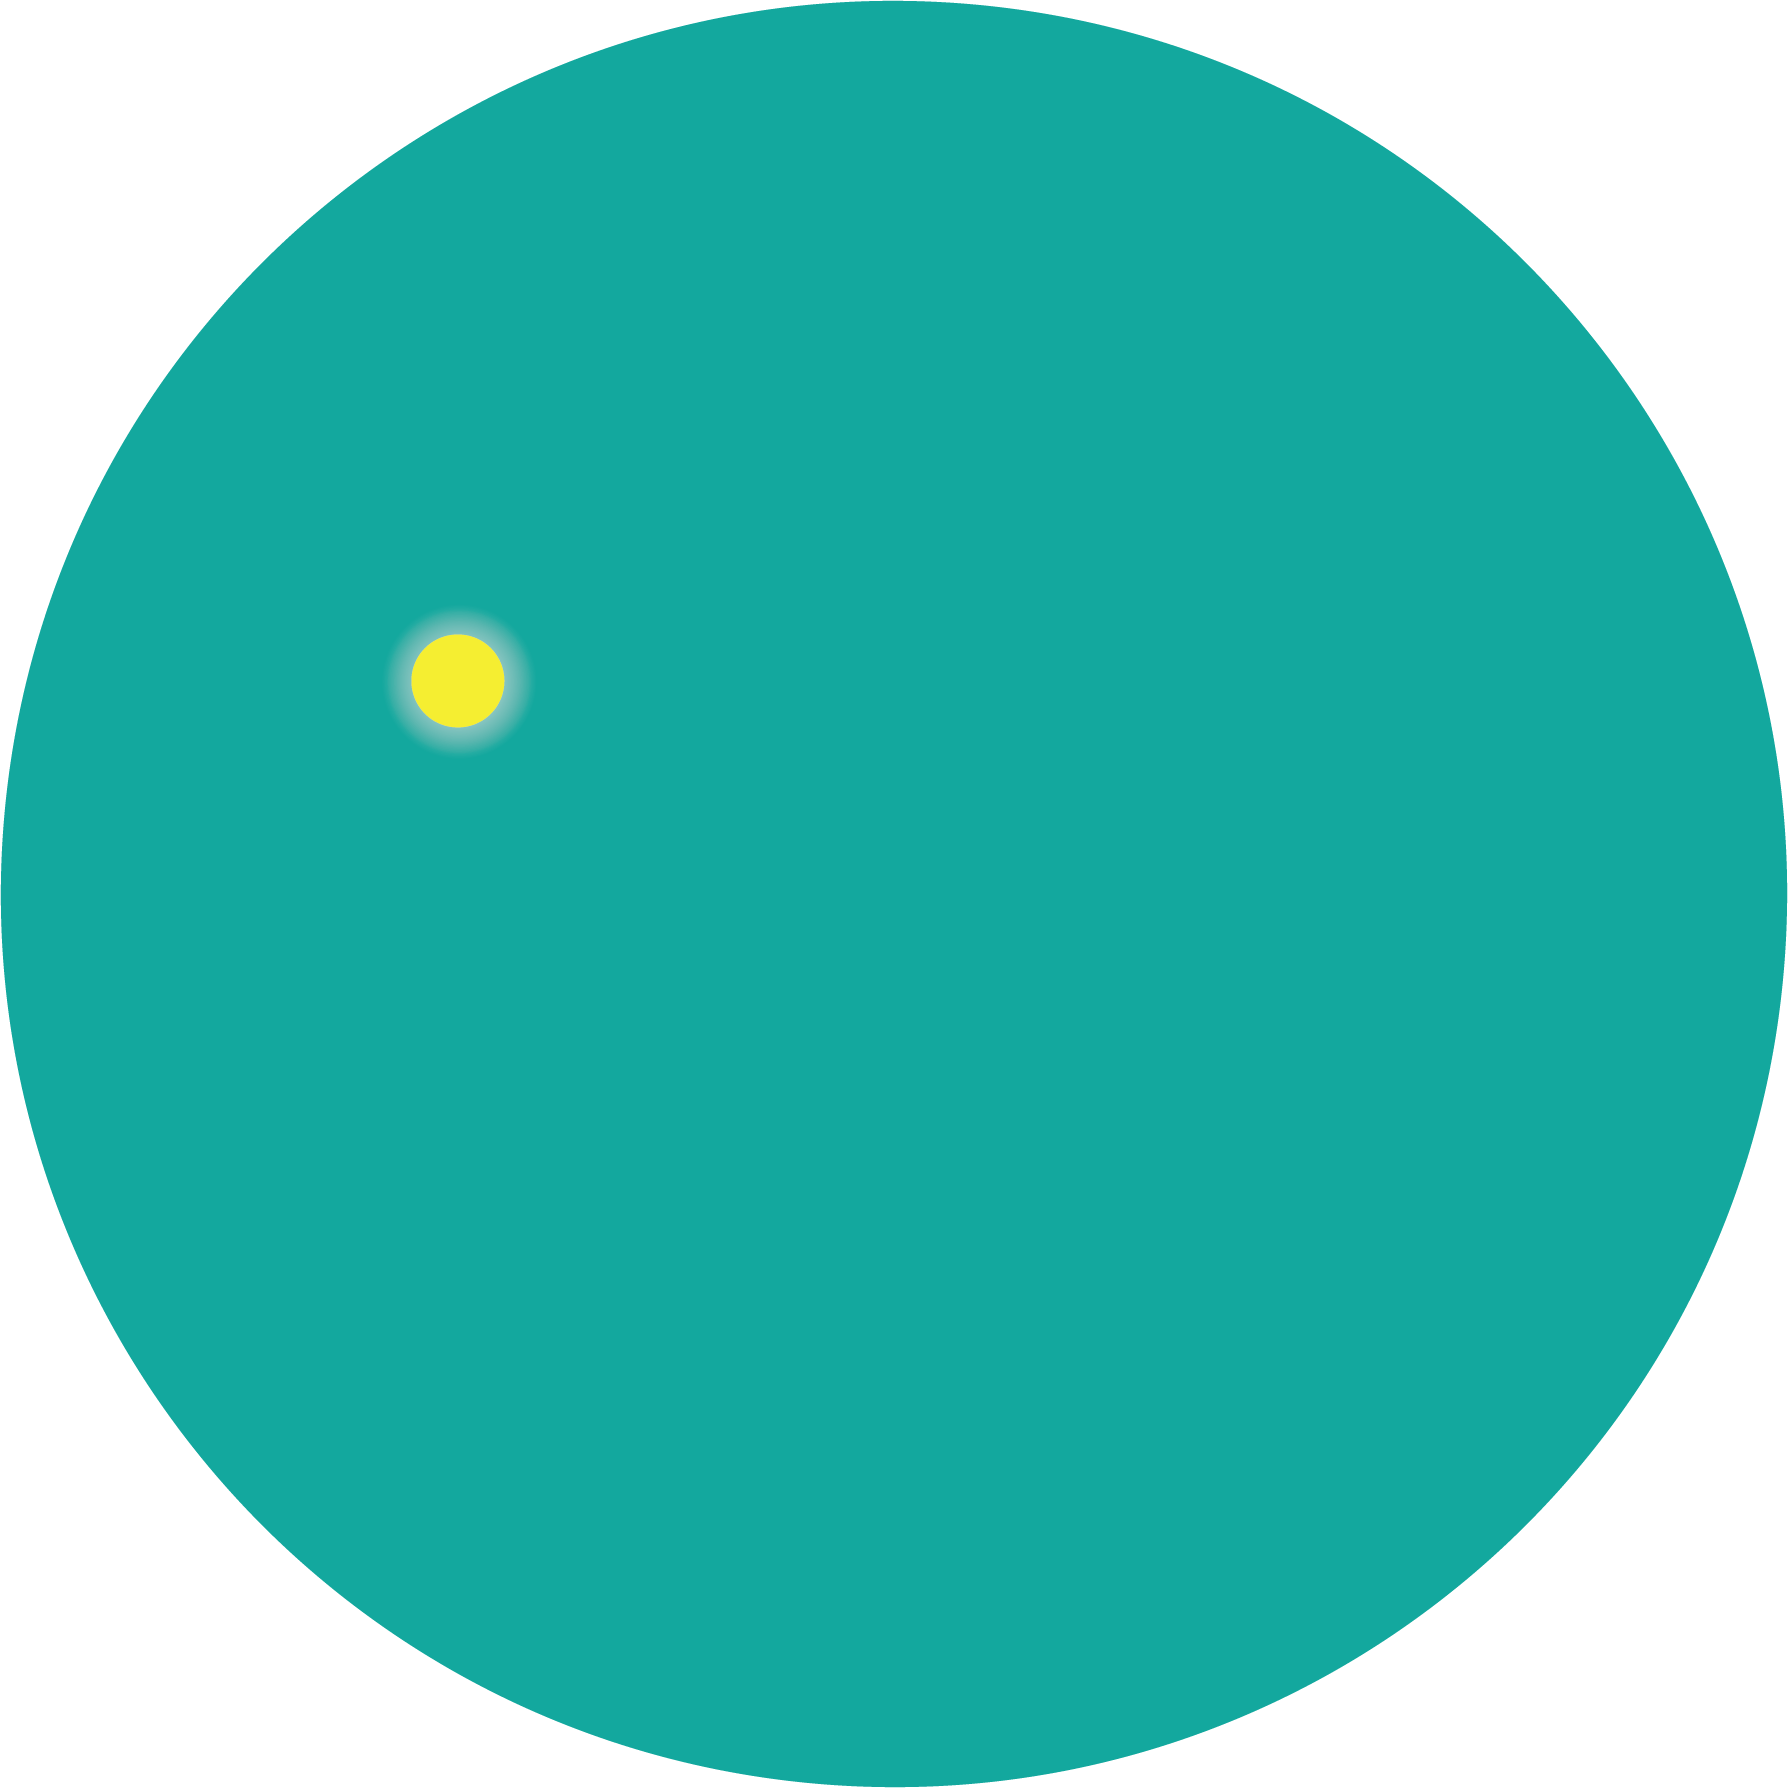
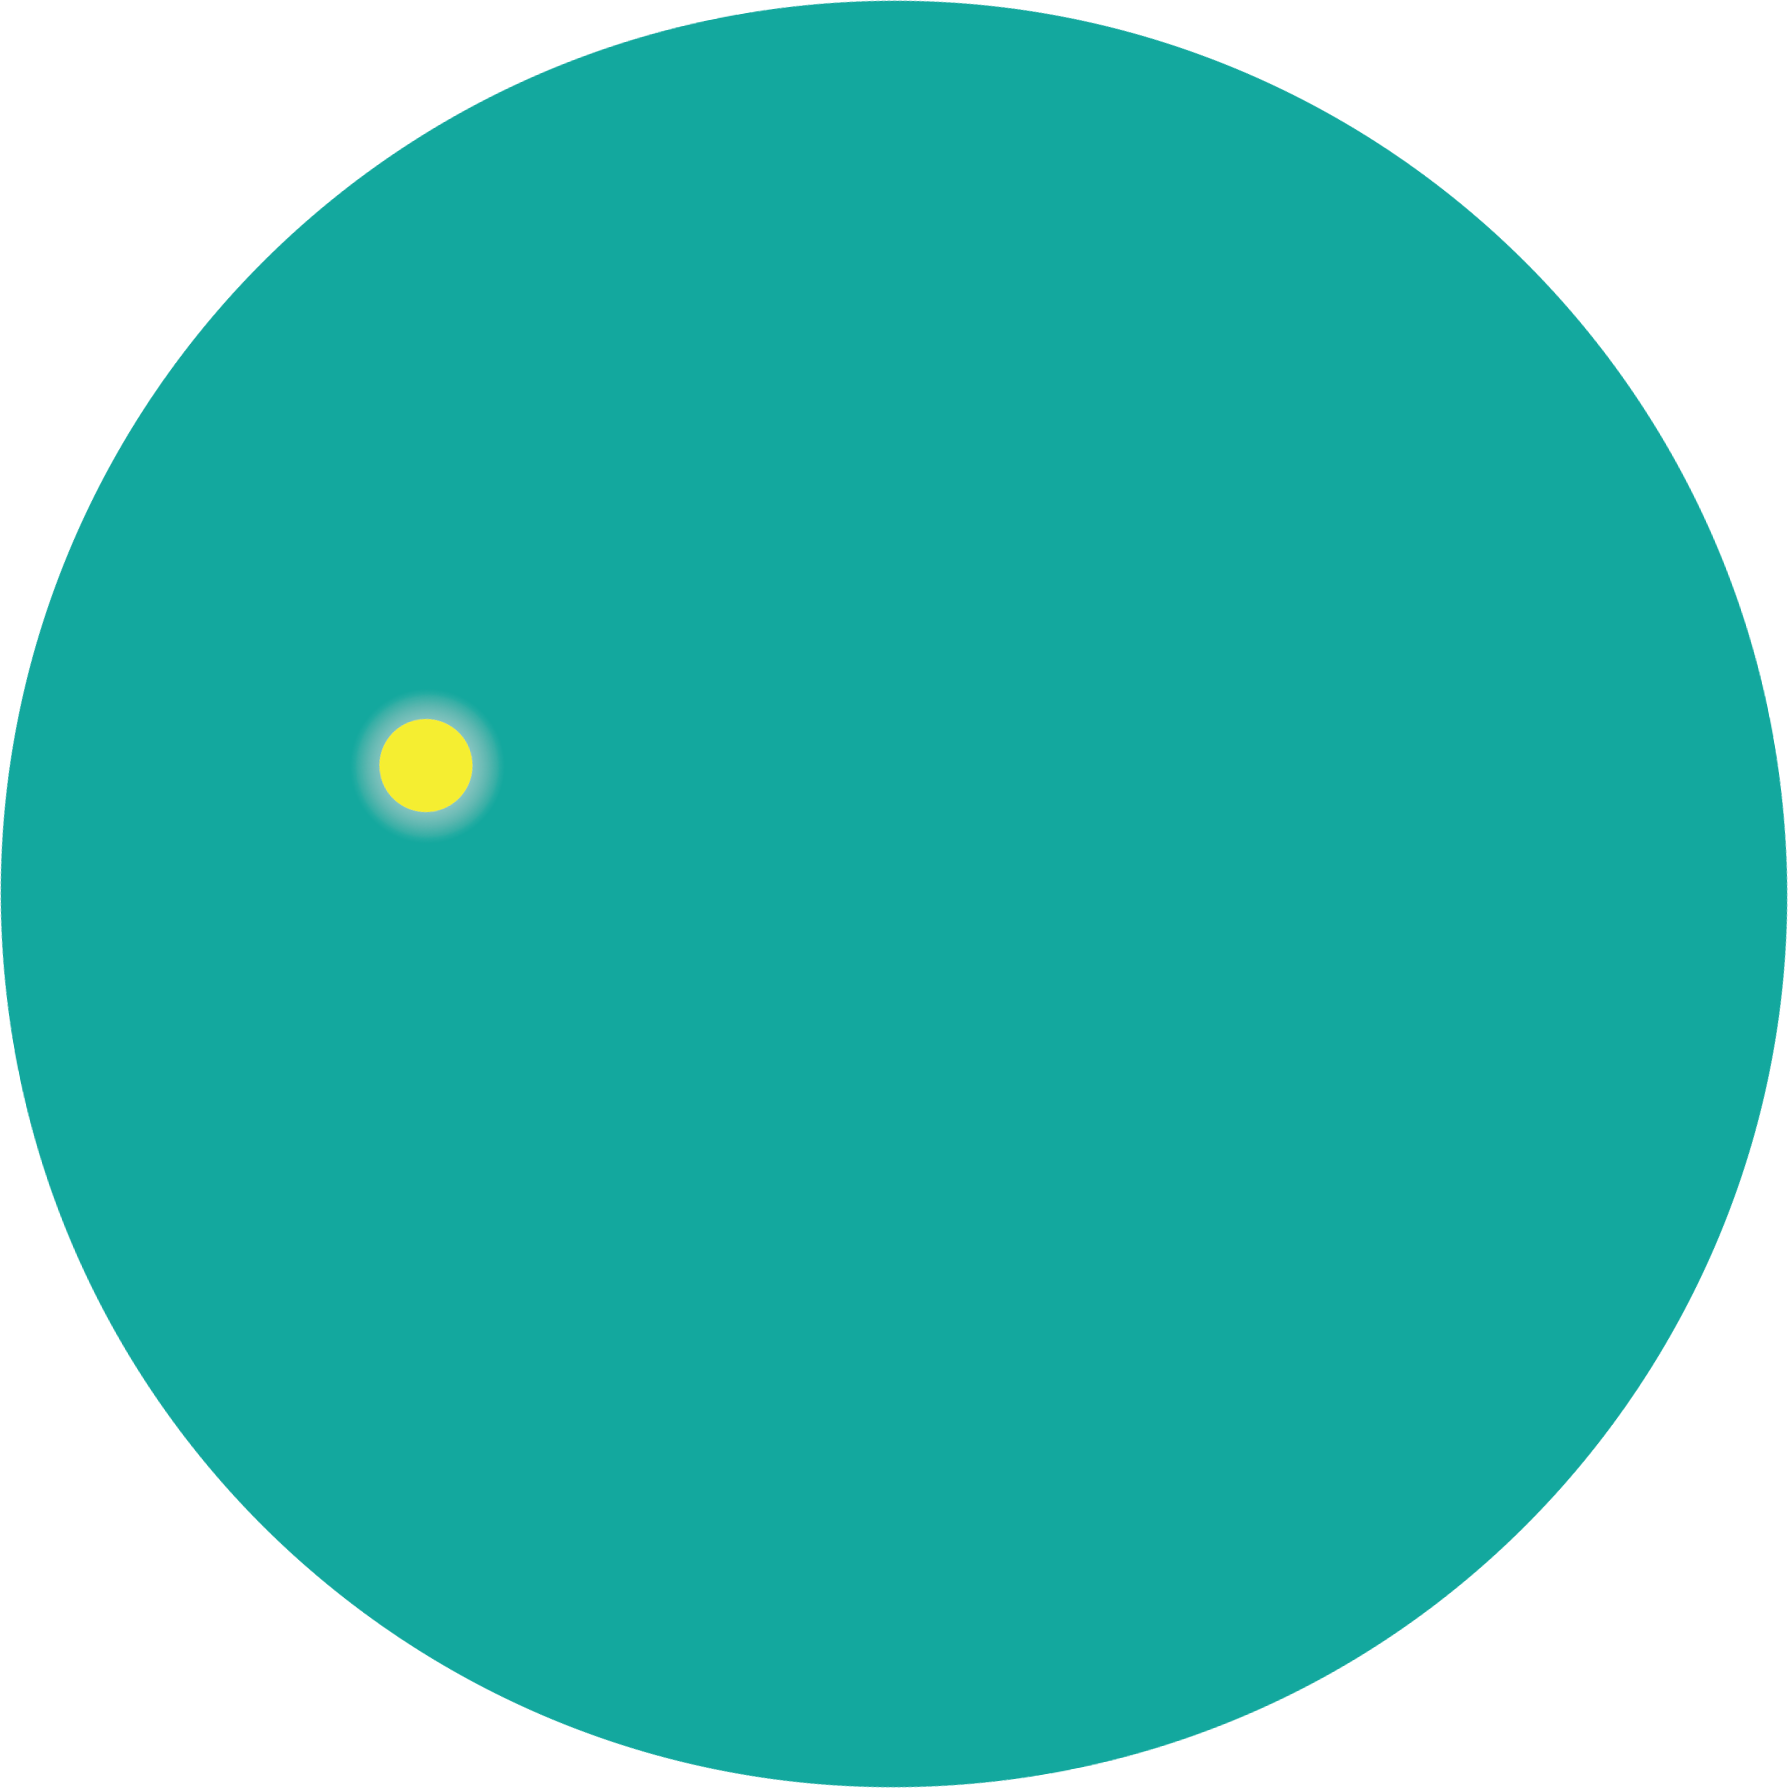
Sun starts and sets below horizon.

Changed region(s): [[0.1846, 0.3384, 0.3076, 0.4922]]

diff --git a/include/GameLogic.h b/include/GameLogic.h
@@ -64,8 +64,8 @@ class GameLogic{
 
         int sunStartOrientation = 0;
         int sunRiseOrientation = 10;
-        int sunSetOrientation = 134;
-        float levelSpeedModifier = 2.5;
+        int sunSetOrientation = 150;
+        float levelSpeedModifier = 12;
         float levelSpawnModifier = 3;
         float rotation;
         float spawnTime;
